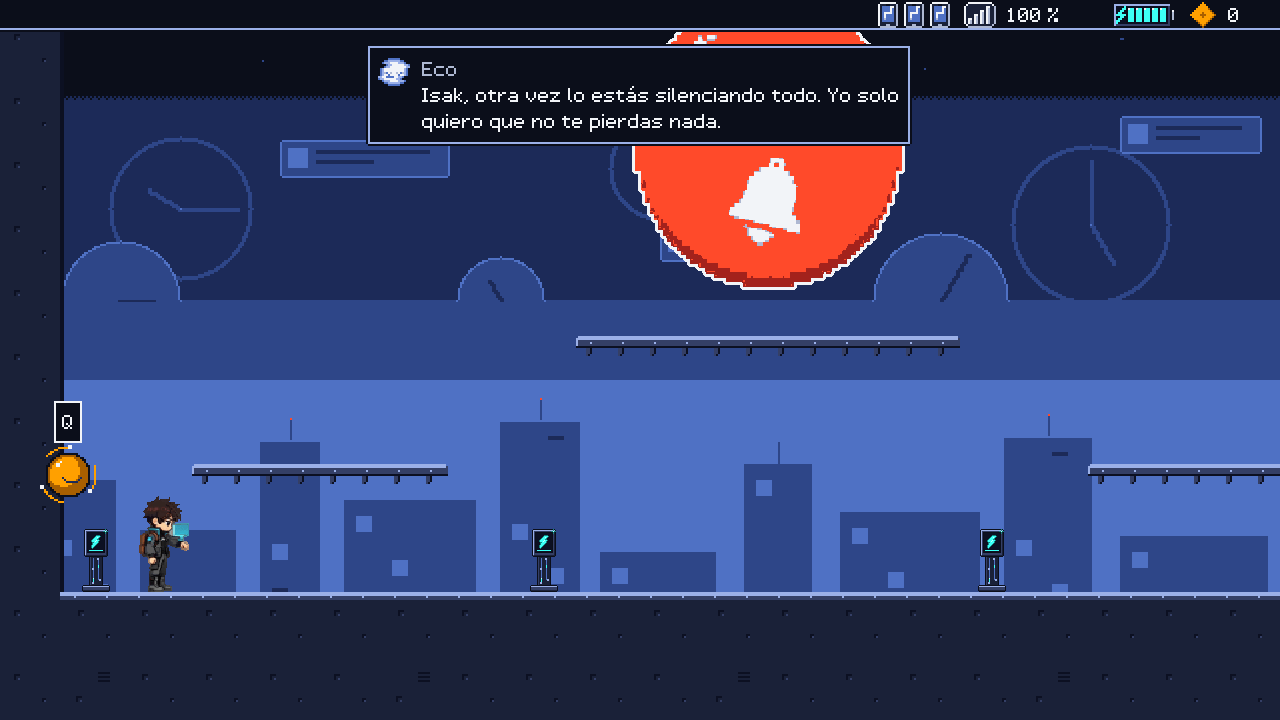
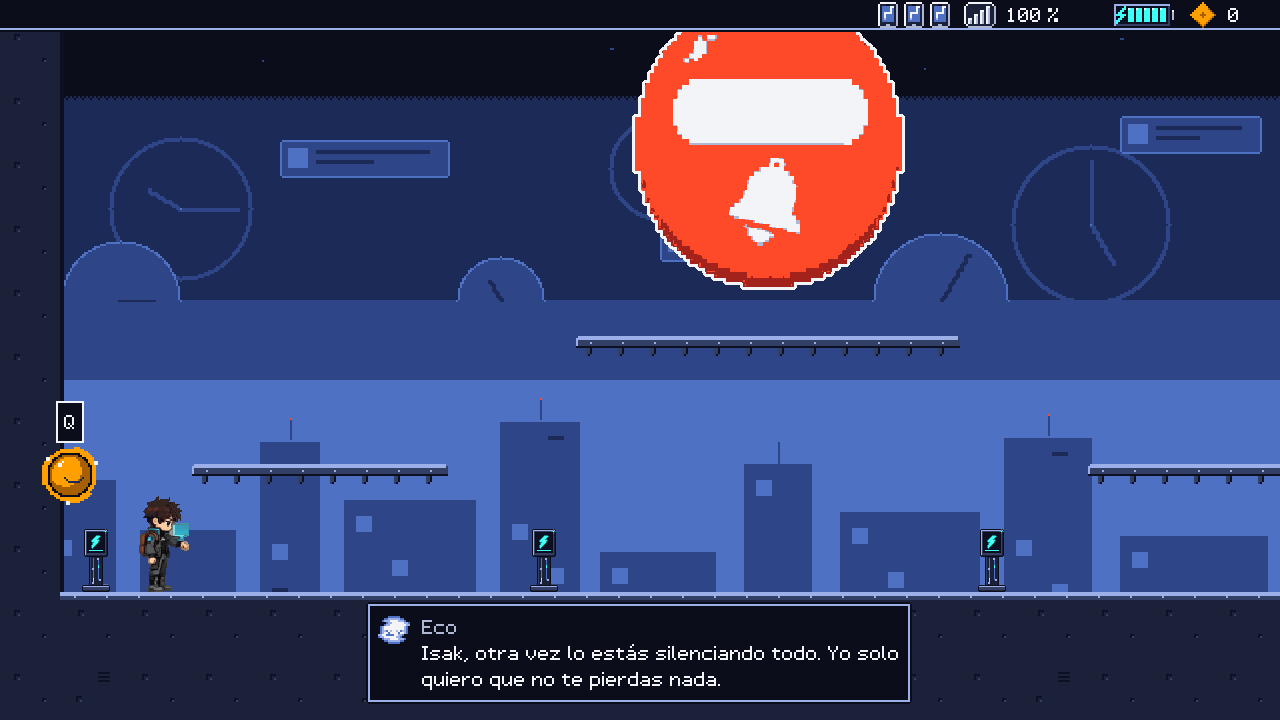
Alerta Mayor: arreglos visuales de las capturas (cuadro de Eco abajo, encuadre, contador, Q calmada)
- Con un jefe sin vencer el cuadro de Eco va abajo (boss_bottom_px)
- BossCamera: camara centrada entre Isak y el cuerpo/copias (seccion camera), limites y escala iguales
- El contador del badge sigue a la pastilla al bajar y subir
- boss_calm (data/help.json): cada tipo se destaca 3 s y la Q queda fija sobre Eco sin brillo
Bot ideal/torpe Cache/Kernel/Raiz con tiempos identicos, 0 golpes y 0 muertes; validate_boss identico.

Changed region(s): [[0.2812, 0.825, 0.7188, 0.9778], [0.2812, 0.0611, 0.7188, 0.2139], [0.0312, 0.5806, 0.0938, 0.7028]]

diff --git a/docs/propuesta-jefe-alerta-mayor.md b/docs/propuesta-jefe-alerta-mayor.md
@@ -609,5 +609,5 @@ Plan, créditos llamada a llamada, desvíos y comandos en `docs/plan-arte-jefe-a
 - **Cuerpo:** `AlertMajorBody` (`scripts/bosses/alert_major_body.gd`) con las animaciones `hover`, `inflate`, `descend`, `ascend`, `window`, `lunge_warn` y `lunge` (sección `art` de `data/bosses/alert_major.json`; cuadros de `tools/import_boss_alert_major.py`, reducidos a `mundo1.gpl` sin carmín con `tools/reduce_palette.py`). `AlertMajor._refresh_art` pone el mismo cuadro a la real y a las copias. Bajar, subir, el aviso del lanzamiento y el lanzamiento avanzan con la fracción de su tiempo en el código: **los tiempos y los avisos no cambian** (el validador comprueba que inflarse no dure más que sus avisos). **Cajas de daño y núcleo sin cambios.** `arena.draw_scale` 2 → 1.
 - **Cambios visibles:** contador sobre la pastilla en blanco (texto oscuro) arriba; **oculto en la fase 3 mientras hay copias** (antes salía solo sobre la real y la delataba); la real se ve igual que las copias también al lanzarse; estela del lanzamiento por código; el desarme en píxeles usa el cuadro actual.
 - **Resultados (iguales a los de §6.4):** validador OK; humo 29,5 s y `--full` 35,9 s; bot del jefe ideal 67,5 / 67,3 / 53,8 s y torpe 183,3 / 174,5 / 202,5 s, 0 golpes y 0 muertes; bot del 1-3: 86,3 s, 0 golpes, 0 muertes, 9 dashes; `tools/run_tests.sh` en verde (1323 pruebas GUT, código 0).
-- **Capturas de la pelea completa y mapa (2026-10-22):** `tools/smoke_boss_arena.gd -- --full --shots <carpeta>` (con ventana) guarda 12 capturas del flujo real desde el hub (intro, fases 1-3 con su ventana, golpe final, desarme en píxeles, recompensa, hub con la pieza cian encendida y la carpeta del Mundo 2 «Próximamente»); copia en `assets/levels_preview/1-boss/` y mapa en `assets/levels_preview/1-boss_mapa.png` (`tools/render_level_map.py`, que ahora dibuja el jefe, las campanas, el metrónomo y las plataformas que parpadean). Defectos visuales vistos (sin arreglar): (1) las líneas de Eco por el jefe (intro y cambios de fase) tapan la barra del jefe y, con el jefe arriba, parte del badge (capturas 01, 04 y 06); (2) la arena (24 tiles, 1536 px) no cabe en pantalla: con Isak a un lado, el jefe o las copias del otro quedan cortados (04, 07); (3) el contador «99+» toca el borde superior del badge (02); (4) en una partida sin las ayudas aprendidas Eco lleva la Q dorada durante toda la pelea (01-09), lo que distrae; (5) el panel de la carpeta del Mundo 2 dice «Pulso: entrar» aunque no hay nada que entrar (12).
+- **Capturas de la pelea completa y mapa (2026-10-22):** `tools/smoke_boss_arena.gd -- --full --shots <carpeta>` (con ventana) guarda 12 capturas del flujo real desde el hub (intro, fases 1-3 con su ventana, golpe final, desarme en píxeles, recompensa, hub con la pieza cian encendida y la carpeta del Mundo 2 «Próximamente»); copia en `assets/levels_preview/1-boss/` y mapa en `assets/levels_preview/1-boss_mapa.png` (`tools/render_level_map.py`, que ahora dibuja el jefe, las campanas, el metrónomo y las plataformas que parpadean). Defectos visuales vistos (sin arreglar): (1) las líneas de Eco por el jefe (intro y cambios de fase) tapan la barra del jefe y, con el jefe arriba, parte del badge (capturas 01, 04 y 06); (2) la arena (24 tiles, 1536 px) no cabe en pantalla: con Isak a un lado, el jefe o las copias del otro quedan cortados (04, 07); (3) el contador «99+» toca el borde superior del badge (02); (4) en una partida sin las ayudas aprendidas Eco lleva la Q dorada durante toda la pelea (01-09), lo que distrae; (5) el panel de la carpeta del Mundo 2 dice «Pulso: entrar» aunque no hay nada que entrar (12). **Arreglados el 2026-10-22** (capturas rehechas en `assets/levels_preview/1-boss/`, nueva `13_encuadre_centro.png` de `tools/render_boss_alert_major.gd`; prueba `tests/test_visual_fixes.gd`): (1) con un jefe sin vencer (`BossBase.is_any_active`) el cuadro de Eco va **abajo** (`boss_bottom_px` de `data/eco_text_box.json`), mismo contenido; (2) **encuadre**: `BossCamera` (sección `camera` del JSON del jefe: `isak_weight` 0,5, `isak_margin_px` 128) mueve en horizontal la cámara de Isak al centro entre Isak y el cuerpo / las copias (`get_camera_focus_xs`), con los límites de la arena y el suavizado propio de la cámara, sin cambiar la escala; con Isak pegado a una pared la arena sigue sin caber entera (1536 px frente a 1280) y lo del otro extremo puede quedar cortado; el bot y `tools/validate_boss.py` no dependen del encuadre (salidas y tiempos idénticos); (3) el **contador** acompaña a la pastilla durante la bajada y la subida (`get_label_up_weight`): al empezar a bajar ya no salta encima del badge; (4) **Q calmada**: sección `boss_calm` de `data/help.json`: en la pelea cada tipo se destaca `highlight_s` 3 s (Eco vuela y brilla, la Q parpadea a 4 Hz) y después la Q queda fija sobre Eco junto a Isak, sin brillo ni bote; pulsarla explica y aprende igual que siempre; (5) la carpeta de un mundo sin subniveles dice «Pulso o salto: volver» (`folders.texts.help_empty_world`). Bot: ideal 67,5 / 67,3 / 53,8 s y torpe 183,3 / 174,5 / 202,5 s (Caché / Kernel / Raíz), 0 golpes y 0 muertes, como antes; humo y `-- --full` en verde.
 - **Para decidir con el usuario:** (1) el desinflado se ve más ancho (~183 px) que su caja de 128 px (la IA lo dibujó ancho y plano; con un ancho de 128 el núcleo, a la altura del celular, quedaría por encima del cuerpo); (2) ocultar el contador en la fase 3; ~~(3) si las piezas que siguen por script pierden el sufijo `_placeholder` (plan §5.5)~~ hecho el 2026-10-22: notificación, escudo, barra, marco de la recompensa, ficha del núcleo, icono de Eco y «pop» sin sufijo (mismo comportamiento y mismos UID de importación).
